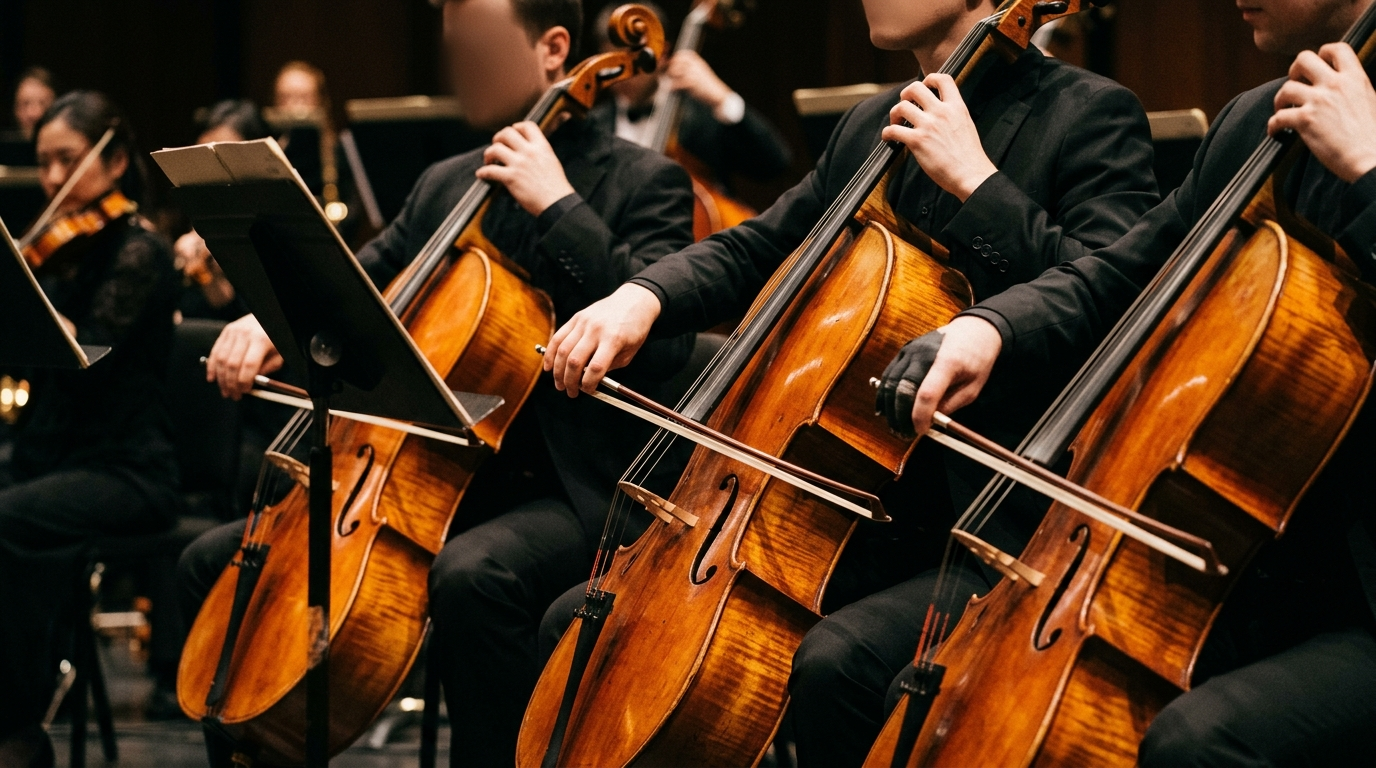
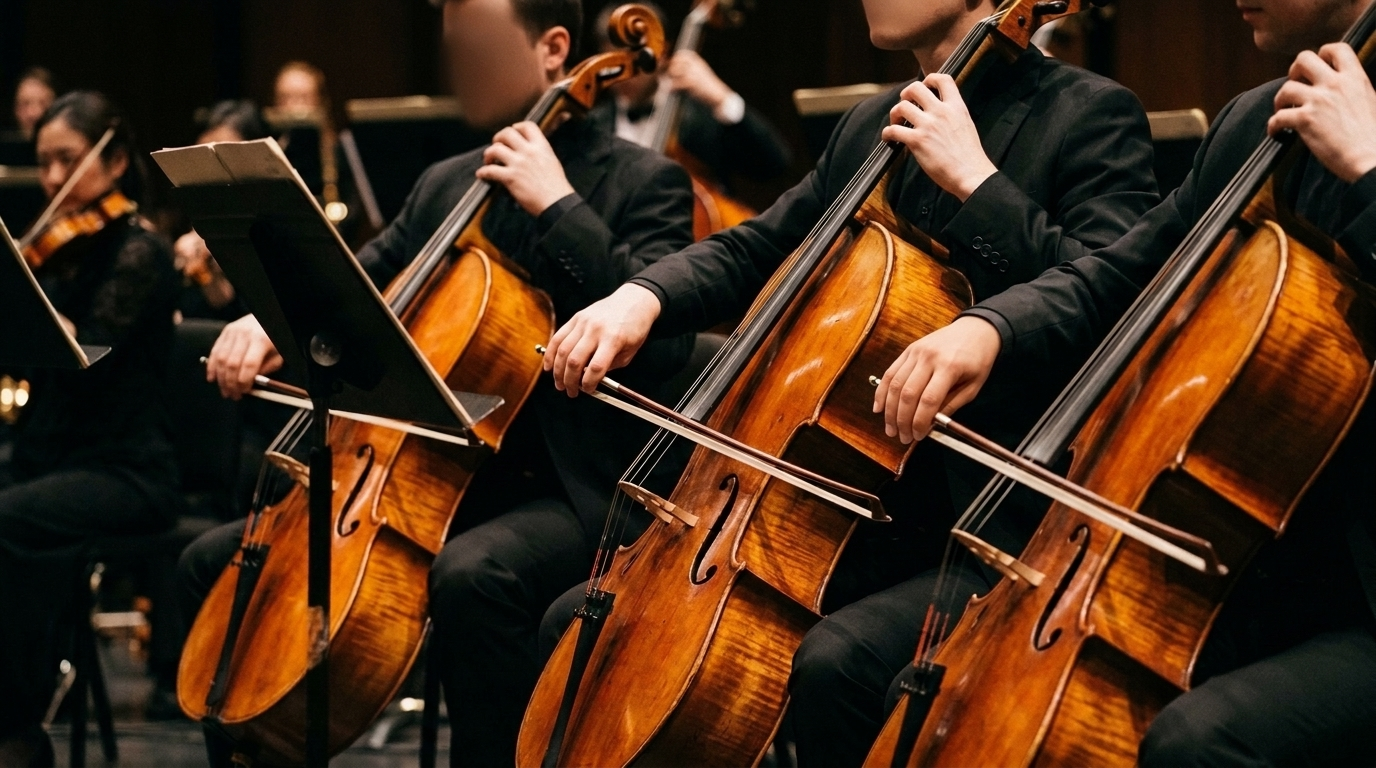
fix(ui): repair rightmost cellist bow hand in banner_cello_section.jpg

Changed region(s): [[0.625, 0.4062, 0.75, 0.5938]]

diff --git a/src/App.jsx b/src/App.jsx
@@ -396,7 +396,7 @@ export default function App() {
               {/* Semi-transparent orchestra cello section artwork on the right */}
               <div className="absolute right-0 top-0 bottom-0 w-full sm:w-3/5 lg:w-1/2 pointer-events-none overflow-hidden select-none">
                 <img
-                  src="/images/banner_cello_section.jpg"
+                  src="/images/banner_cello_section.jpg?v=2"
                   alt="Orchestra Cello Section"
                   className="w-full h-full object-cover object-right opacity-32 mix-blend-screen"
                   style={{
